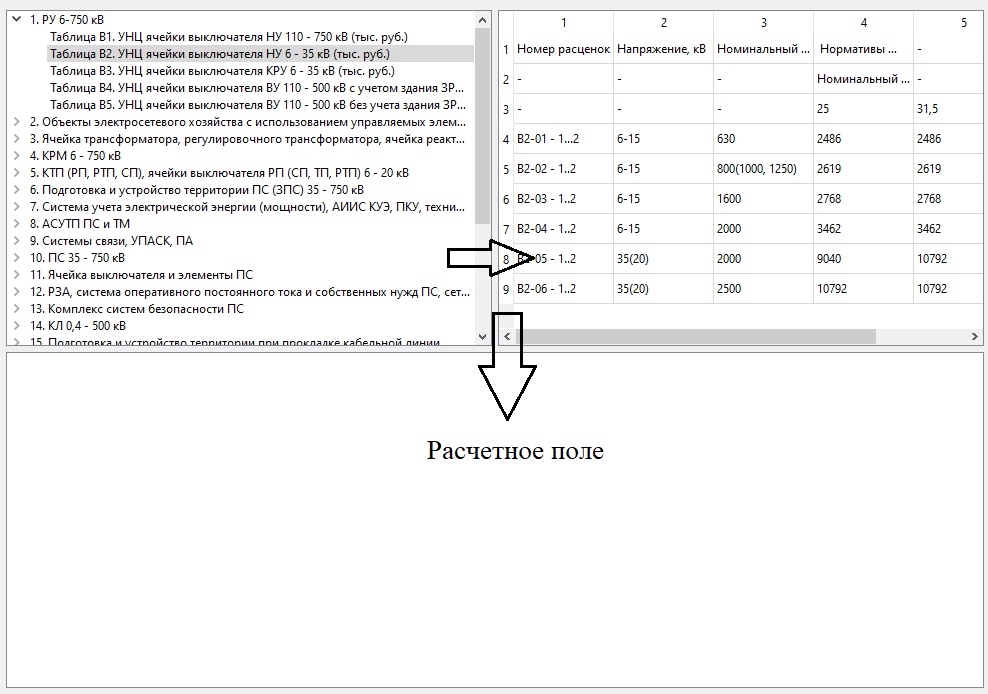
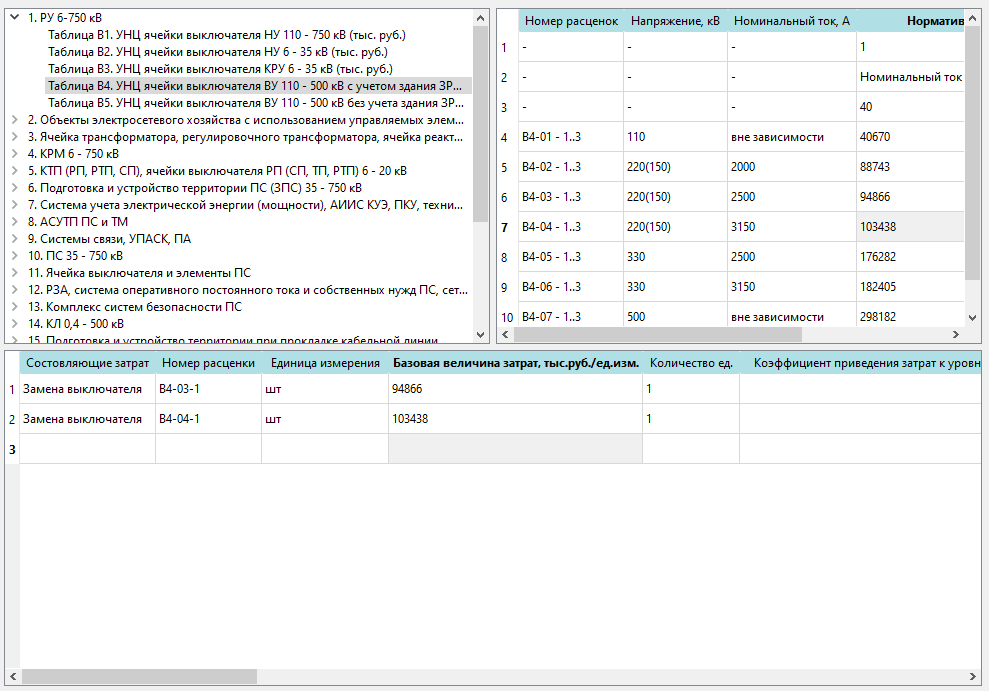
Add files via upload

diff --git a/unc PyQt.py b/unc PyQt.py
@@ -1,0 +1,121 @@
+import sys
+from PySide2.QtWidgets import QApplication, QWidget, QTreeWidget, QHBoxLayout, QVBoxLayout, QTableWidget, QTreeWidgetItem, QTableWidgetItem
+
+from categories import Categories #Содержит словарь для заполнения дерева
+
+from PySide2.QtCore import QObject, Signal
+
+
+class Communicate(QObject):
+    update_table = Signal(str)
+    update_main_table = Signal(str)
+
+class DataTable(QTableWidget):
+    def __init__(self):
+        super().__init__()
+        self.initTable()
+
+    def initTable(self):
+        self.setColumnCount(1)
+        self.setRowCount(1)
+        self.setItem(0, 0, QTableWidgetItem('<---'))
+
+    def update_table(self, item):
+        table = Categories().tables
+        stylesheet = "::section{Background-color:rgb(176,224,230);border-radius:2px;}"
+        self.setColumnCount(len(table[item][0]))
+        self.setRowCount(len(table[item]) - 1)
+        for i in range(len(table[item])):
+            for j in range(len(table[item][i])):
+                if i == 0:
+                    self.setHorizontalHeaderItem(j,QTableWidgetItem(table[item][i][j]))
+                    continue
+                self.setItem(i-1, j, QTableWidgetItem(table[item][i][j]))
+        self.horizontalHeader().setStyleSheet(stylesheet)
+        self.resizeColumnsToContents()
+
+class MainTable(QTableWidget):
+    def __init__(self):
+        super().__init__()
+        self.initTable()
+
+    def initTable(self):
+        self.header = ['Состовляющие затрат',
+                       'Номер расценки',
+                       'Единица измерения',
+                       'Базовая величина затрат, тыс.руб./ед.изм.',
+                       'Количество ед.',
+                       'Коэффициент приведения затрат к уровню цен субъекта',
+                       'Базовые затраты в уровнях цен субъекта РФ, тыс.руб.',
+                       'Текущие затраты в уровне цен субъекта РФ, тыс.руб.']
+        self.row_position = 0
+        self.setColumnCount(8)
+        self.setRowCount(1)
+        for i in range(0, len(self.header)):
+            self.setHorizontalHeaderItem(i, QTableWidgetItem(self.header[i]))
+        stylesheet = "::section{Background-color:rgb(176,224,230);border-radius:2px;}"
+        self.horizontalHeader().setStyleSheet(stylesheet)
+        self.resizeColumnsToContents()
+
+    def update_table(self, item):
+        self.setItem(self.row_position, 3, QTableWidgetItem(item))
+        self.row_position += 1
+        self.insertRow(self.row_position)
+
+
+
+class Window(QWidget):
+    def __init__(self):
+        super().__init__()
+        self.initUI()
+
+    def initUI(self):
+
+        def treeItems(): #Заполнение дерева
+            categories = Categories().data
+            for key in categories:
+                parent = QTreeWidgetItem(tree)
+                parent.setText(0, key)
+                for item in categories[key]:
+                    child = QTreeWidgetItem(parent)
+                    child.setText(0, item)
+
+        vbox = QVBoxLayout(self)
+        hbox = QHBoxLayout(self)
+        tree = QTreeWidget(self)
+        tree.setHeaderHidden(True)
+        self.setGeometry(300, 300, 1000, 700)
+        self.setWindowTitle('УНЦ ПБЭ')
+        self.c = Communicate()
+        self.c2 = Communicate()
+        self.wid = DataTable()
+        self.table = MainTable()
+        self.c2.update_main_table.connect(self.table.update_table)
+        self.c.update_table.connect(self.wid.update_table)
+        tree.itemClicked.connect(self.onItemClicked)
+        self.wid.itemClicked.connect(self.onTableItemClicked)
+
+        hbox.addWidget(tree)
+        hbox.addWidget(self.wid)
+
+        vbox.addLayout(hbox)
+        vbox.addWidget(self.table)
+        treeItems() #Заполнить дерево
+
+        self.show()
+
+
+    def onItemClicked(self, it, col):
+        item = it.text(col)
+        self.c.update_table.emit(item)
+
+    def onTableItemClicked(self, item):
+        self.c2.update_main_table.emit(item.text())
+
+
+if __name__ == '__main__':
+    app = QApplication(sys.argv)
+    categories = Categories()
+
+    ex = Window()
+    sys.exit(app.exec_())
